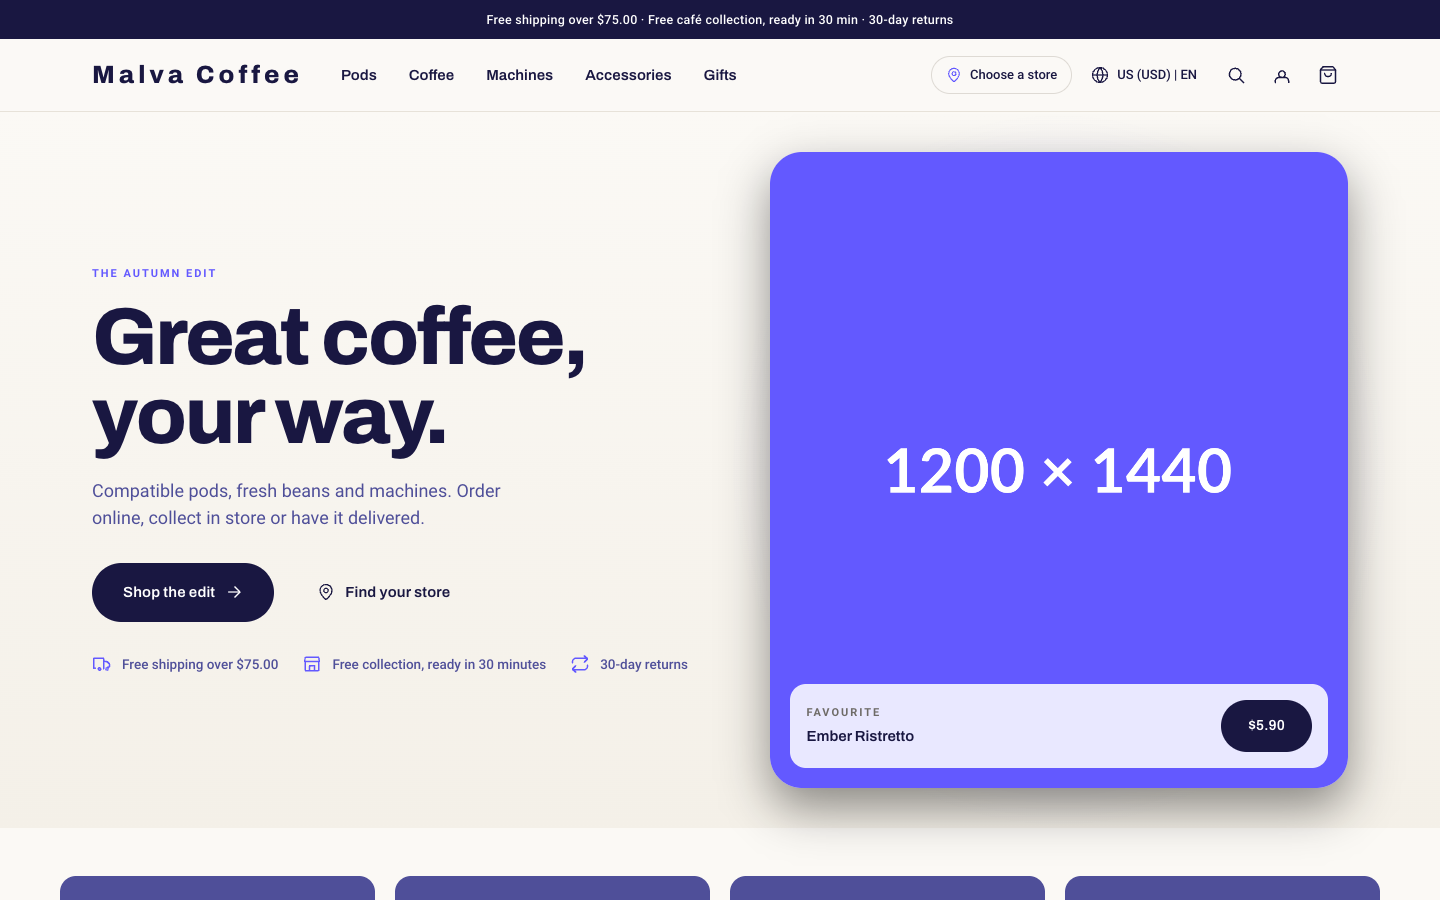
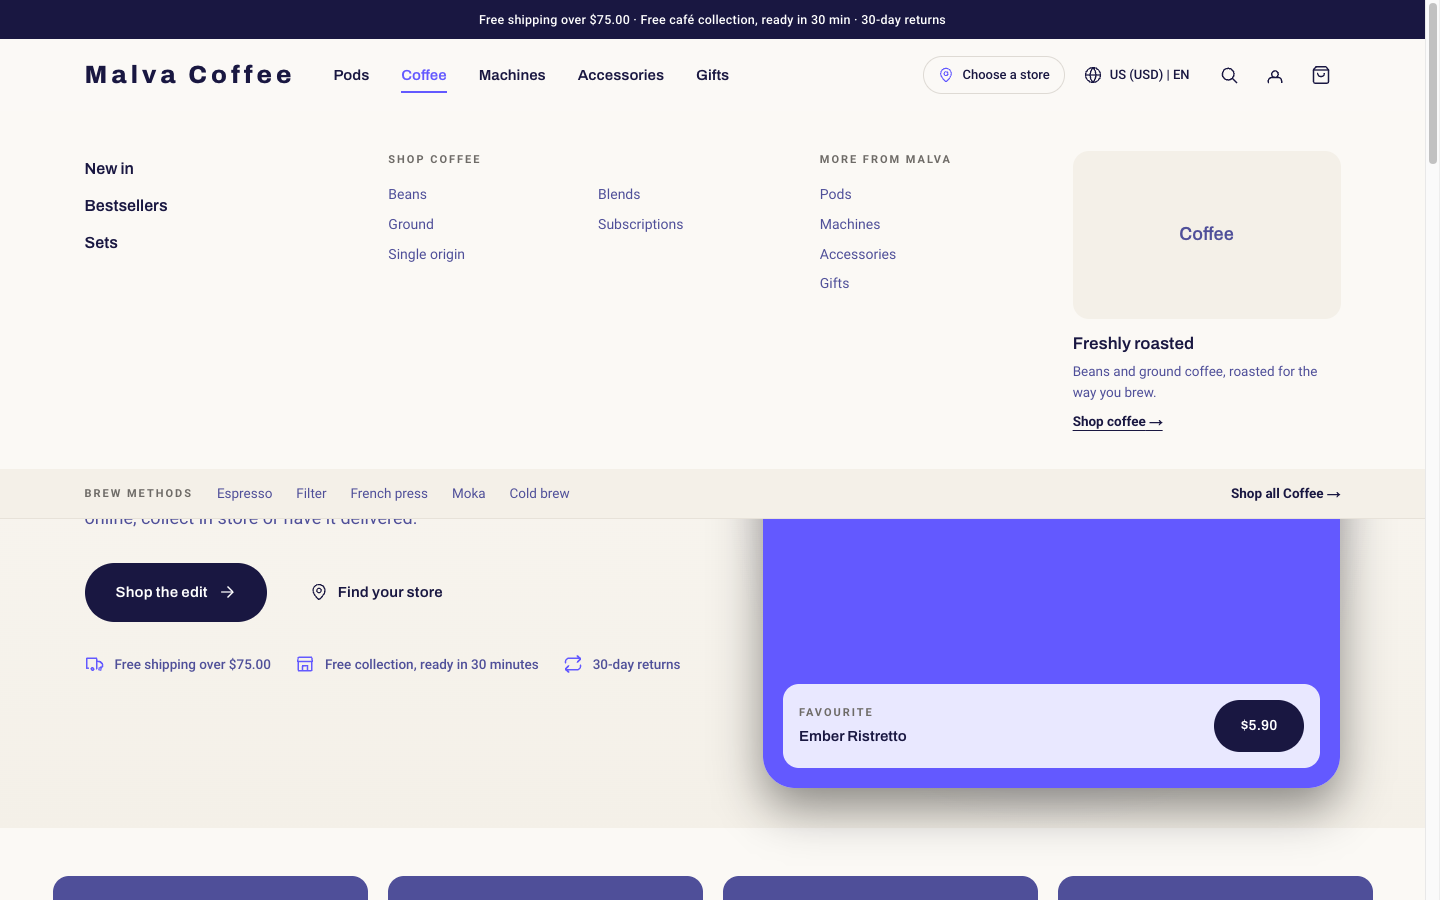
ws-q: evidence so far: journeys J0 J1, screenshots for J1 to J13, fixes ledger

diff --git a/b2c-foodservice/plans/evidence/Q/journeys.md b/b2c-foodservice/plans/evidence/Q/journeys.md
@@ -1,0 +1,46 @@
+<!-- SPDX-License-Identifier: MIT -->
+<!-- Copyright (c) 2026 commercetools GmbH. Freely available, AS IS and UNSUPPORTED. -->
+
+# End-to-end journeys (Q-09)
+
+Run 2026-10-22 by workstream Q with the Chrome DevTools MCP against a **production build** (`npm run build`, `next start -p 3100`) of branch `ws/q-quality`, talking to the **local mock commercetools** (`storefront/scripts/mock-ct-server.mjs`, project `mock-project`). There is no live project, Checkout Application or Stripe connector yet (OA-01, OA-04, OA-K-a), so:
+
+- Everything the shopper sees in the storefront is verified here at 1440x900 and, where `E2E-JOURNEYS.md` asks, at 375x812 (`emulate` mobile, touch). The MCP window cannot be resized below 500 px; the 375 px views use device emulation.
+- The **hosted Checkout widget and Stripe cannot run against the mock**: its script URL is the mock origin, which the CSP correctly blocks (a mock-only artefact). The pay step is simulated the way the platform does it: the storefront creates the payment session (`POST /api/checkout/session`), the mock plays the hosted Checkout finishing (`POST /__mock/place-order`, scratch helper outside the repository), the storefront finalises (`POST /api/checkout/complete`) and renders the confirmation. Steps that need the real widget are marked `blocked: OA-K-a` and are owner rows M-K-01 to M-K-04, M-Q-01.
+- Mock limits to remember: flat 8% tax per country (so pods show tax that the real project zero-rates), no Product Search relevance, placeholder images (`1200 x 1440`), orders and carts live in memory only.
+- Browser cookies on `localhost` are shared across ports (other dev projects on this machine set `NEXT_LOCALE`, `portal_last_bu`, ...); journeys use isolated browser contexts.
+- Read-backs use the mock's debug routes (`GET /__mock/orders`, `/__mock/carts`), not the live project: ids and numbers only.
+
+Screenshots are in this folder as `J<n>-<what>-<375|1440>.png`. Console and network were checked after each step: no console error and no failed request unless the step says so.
+
+Defects found are listed in `fixes.md`.
+
+## J0 Shell, market and store persistence: PASS
+
+| Step | Observation |
+| --- | --- |
+| 1 | `/` redirects to `/en-US`. Promise bar `Free shipping over $75.00 · Free café collection, ready in 30 min · 30-day returns`; wordmark, five primary links (Pods, Coffee, Machines, Accessories, Gifts), store pill `Choose a store`, market pill `US (USD) \| EN`, search, sign in, cart `0 items`. |
+| 2 | Hover on Coffee opens the mega menu (New in, Bestsellers, Sets; Shop coffee; More from Malva; brew-method strip). `J0-mega-1440.png`. |
+| 3 | Store pill opens the picker with the six New York City stores; choosing Williamsburg gives the pill `Collect at Malva Coffee Williamsburg`; after a reload it is still chosen. `J0-store-picker-1440.png`. |
+| 4 | Market pill: Canada goes to `/en-CA` (`lang="en-CA"`), CAD prices, **no store pill**, promise bar `Free shipping over $99.00 · 30-day returns` (no collection promise), exactly one `PUT /api/session/market` (200). Switching back to the US: pill is `Choose a store` (Williamsburg forgotten). |
+| 5 | At 375 px the menu toggle appears, the slide-in navigation opens (16 px bold links; the first link has focus), Escape closes it, no horizontal overflow. `J0-mobile-nav-375.png`. |
+| 6 | Newsletter: `not-an-email` gives the inline error `Enter a valid email address` (`aria-invalid`, `aria-describedby`); a valid address gives the toast `Thanks, you're on the list` (the form is a validated no-op, nothing is stored: Q-F-07). |
+
+## J1 Guest buys a pod box
+
+### J1-US (collect, `/en-US`, store Harlem): PASS (hosted payment simulated)
+
+| Step | Observation |
+| --- | --- |
+| 1 | `Ember Ristretto` pod page: pack selector 10 sleeve, 50 box, 100 box; three cards (Collect in store, Delivery, Subscribe and save). With Williamsburg chosen the product is out of stock there: see J8. With Harlem chosen: `In stock at Malva Coffee Harlem`, `Ready today, in about 30 minutes`, button `Reserve for collection - $5.90`; the 50 box shows `$25.95` and `$0.52 per capsule`. `J1-ca-pdp-1440.png` is the Canada page (J1-CA). |
+| 2 | `Reserve for collection - $25.95`: toast `Reserved for collection`, header `Cart, 1 item`, nothing opens (design Q-H-12). |
+| 3 | `/en-US/cart`: group `Collect · Malva Coffee Harlem` with address and readiness, the line has the `Collect` chip active, shipping `Free`, `Estimated tax`. `J1-us-cart-1440.png`. |
+| 4 | `/en-US/checkout`: Review stage, `Pickup at Malva Coffee Harlem`, `Who's picking up?`. Pressing Continue with an empty pickup name shows `Enter the name of the person collecting.` (field `Pickup name`, `autocomplete=name`, `aria-invalid`, `aria-describedby`, announced in `role=alert`). `J1-us-checkout-review-1440.png`. With a name the Pay stage opens; the hosted widget is the mock origin and is blocked by the CSP (expected, `blocked: OA-K-a`). |
+| 5 | Payment simulated; `/api/checkout/complete` returns the order id; confirmation `Order confirmed`: order number, store, hours, `Ready in about 30 minutes`, tracker `Ordered, Preparing, Ready, Collected`, `Bring a photo ID and your order number.`, `Create an account with this order`; no password in the URL, no sentence that promises an email. `J1-us-confirmation-1440.png`. |
+| 6 | The same confirmation URL in a second isolated context (no cookies) **shows the order**: the page is addressed by the order id only. Real order ids are UUIDs; the page is `no-store`, `noindex`, `Referrer-Policy: strict-origin-when-cross-origin`. Recorded as question Q-Q-15 (default: keep, an unguessable id is the capability). |
+
+Read-back (mock): order `MC-RKSSNE2QGK` has no `customerId`, `customerEmail` is the test address, one line (`MCF-POD-EMBER-50`) with a supply channel and `fulfilment = collect`, shipping method `mcf-collect` price 0, state `mcf-order-ordered`, total 2803 USD cents (mock flat tax).
+
+### J1-CA (delivery, `/en-CA`): PASS (hosted payment simulated)
+
+`Ember Ristretto` in Canada shows Delivery and Subscribe only (no Collect card, no store pill); `Add to bag - $8.10`; bag group `Shipping to you`, `Free standard over $99.00 · 2 to 4 business days`, shipping `$8.95`, estimated tax; confirmation shows a `Delivery` block (`Standard`, estimated 2-4 business days, shipping address) and no collection block. `J1-ca-cart-1440.png`, `J1-ca-confirmation-1440.png`. Read-back: order `MC-10TR0AGZDF`, CAD, line `fulfilment = delivery`, no supply channel, shipping method `mcf-ship-standard`, no `mcf-collect`.

diff --git a/b2c-foodservice/plans/evidence/Q/fixes.md b/b2c-foodservice/plans/evidence/Q/fixes.md
@@ -1,0 +1,14 @@
+<!-- SPDX-License-Identifier: MIT -->
+<!-- Copyright (c) 2026 commercetools GmbH. Freely available, AS IS and UNSUPPORTED. -->
+
+# Defects found by Q and what happened to them
+
+`| id | journey or check | symptom | owning workstream | fix |`. Every fix has a test that failed first (the test names are in the commit). The commit hash is the one that carries the fix; `open` means handed over or recorded as a known gap.
+
+| id | journey or check | symptom | owning workstream | fix |
+| --- | --- | --- | --- | --- |
+| Q-F-01 | responsive 900 px, PDP | the fulfilment card badge ran out of its card | H | fixed: `ws-q: fix pdp fulfilment card badge overflow at 900 px` |
+| Q-F-02 | Lighthouse SEO, listing pages | no meta description on listing, search, sign-in and register pages | G, J | fixed: `ws-q: fix seo and a11y names` |
+| Q-F-03 | Lighthouse a11y, every page | the locale pill's accessible name did not contain its visible text (`label-content-name-mismatch`) | F | fixed: same commit |
+| Q-F-04 | a11y checklist, focus not obscured (WCAG 2.4.11) | the sticky header could hide a focused element | F | fixed: `ws-q: fix a11y and performance: scroll padding under the sticky header` |
+| Q-F-05 | performance, request counts | menu and footer links prefetched on every page (dozens of `_rsc` requests) | F | fixed: same commit (no prefetch of menu and footer links) |
